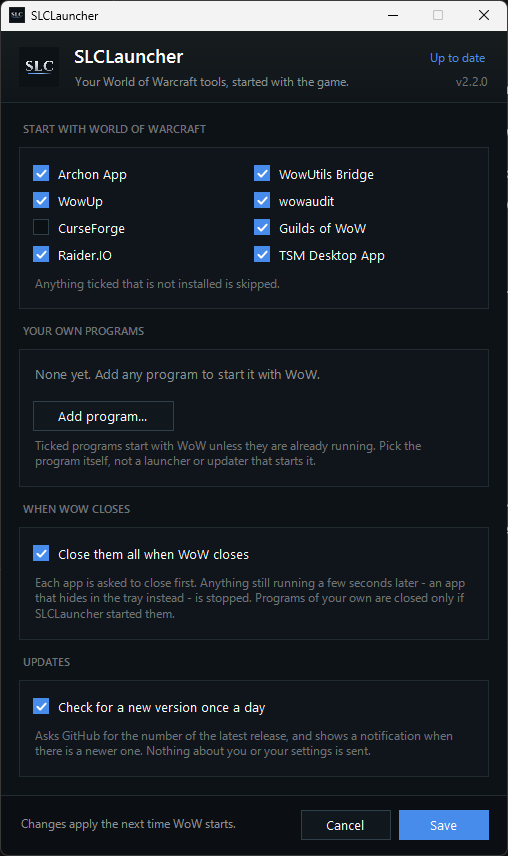
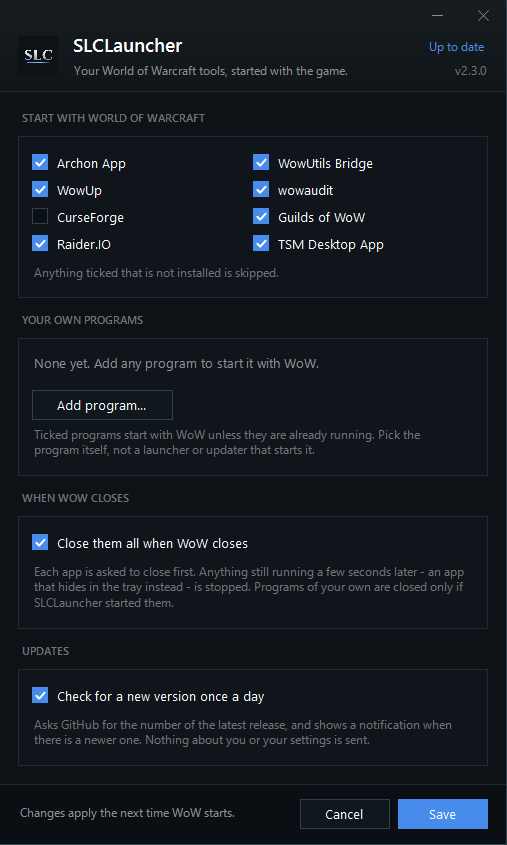
2.3.0: the header is the title bar
The settings window no longer has a Windows title bar. The header band
takes its place: a little more room at the top, minimize and close
buttons drawn flush in its top right corner, and the window dragged by
pressing anywhere on it except the update status line.

ThemedWindow (SLCTheme.cs) restores what a borderless window loses: the
taskbar button's minimize/restore and window menu, a drop shadow,
rounded corners on Windows 11, and a one-pixel edge. The buttons send
SC_MINIMIZE/SC_CLOSE, since WindowState does nothing to a ShowDialog
window. ThemeTitleBar is gone with the title bar it coloured.

diff --git a/SLCTheme.cs b/SLCTheme.cs
@@ -250,29 +250,160 @@ namespace SLCLauncher.Theme
         }
     }
 
+    // The window itself, with no Windows title bar: the header band is the
+    // title bar instead, carrying its own minimize and close buttons and
+    // dragging the window wherever it is not a control.
+    //
+    // A window with no border loses three things the title bar gave it, and
+    // they are put back here: its taskbar button minimizing and restoring it
+    // and offering a window menu (WS_MINIMIZEBOX, WS_SYSMENU), a shadow
+    // (CS_DROPSHADOW), and on Windows 11 its rounded corners. Its one-pixel
+    // edge is the window's own colour showing round the page, which the
+    // Padding of one leaves uncovered.
+    public class ThemedWindow : Form
+    {
+        const int WS_MINIMIZEBOX = 0x00020000;
+        const int WS_SYSMENU     = 0x00080000;
+        const int CS_DROPSHADOW  = 0x00020000;
+
+        public ThemedWindow()
+        {
+            FormBorderStyle = FormBorderStyle.None;
+            BackColor       = Palette.WindowEdge;
+            Padding         = new Padding(1);
+        }
+
+        protected override CreateParams CreateParams
+        {
+            get
+            {
+                var cp = base.CreateParams;
+                cp.Style     |= WS_MINIMIZEBOX | WS_SYSMENU;
+                cp.ClassStyle |= CS_DROPSHADOW;
+                return cp;
+            }
+        }
+
+        protected override void OnHandleCreated(EventArgs e)
+        {
+            base.OnHandleCreated(e);
+            Native.RoundCorners(this);
+        }
+    }
+
+    // Minimize or close, drawn as Windows 11 draws its own: a flat cell flush
+    // with the window's top right corner, lit on hover, the close cell red.
+    public class CaptionButton : Control
+    {
+        bool hover, down;
+        public bool IsClose { get; set; }
+
+        public CaptionButton()
+        {
+            SetStyle(ControlStyles.UserPaint | ControlStyles.AllPaintingInWmPaint |
+                     ControlStyles.OptimizedDoubleBuffer | ControlStyles.ResizeRedraw, true);
+            SetStyle(ControlStyles.Selectable, false);   // not a tab stop: Alt+F4 and the taskbar cover the keyboard
+        }
+
+        static readonly Color CloseHover = Color.FromArgb(0xC4, 0x2B, 0x1C);
+        static readonly Color CloseDown  = Color.FromArgb(0x94, 0x1F, 0x14);
+
+        protected override void OnMouseEnter(EventArgs e) { hover = true;  Invalidate(); base.OnMouseEnter(e); }
+        protected override void OnMouseLeave(EventArgs e) { hover = false; down = false; Invalidate(); base.OnMouseLeave(e); }
+        protected override void OnMouseDown(MouseEventArgs e) { if (e.Button == MouseButtons.Left) { down = true; Invalidate(); } base.OnMouseDown(e); }
+        protected override void OnMouseUp(MouseEventArgs e) { down = false; Invalidate(); base.OnMouseUp(e); }
+
+        protected override void OnClick(EventArgs e)
+        {
+            base.OnClick(e);
+            var form = FindForm();
+            if (form == null) return;
+            // The window menu's own commands, so Windows minimizes and closes
+            // it exactly as from the taskbar -- setting WindowState does
+            // nothing to a window shown with ShowDialog.
+            Native.SystemCommand(form, IsClose ? Native.SC_CLOSE : Native.SC_MINIMIZE);
+        }
+
+        protected override void OnPaint(PaintEventArgs e)
+        {
+            var g = e.Graphics;
+            Color fill = Color.Empty;
+            if (IsClose && (hover || down)) fill = down ? CloseDown : CloseHover;
+            else if (down)  fill = Palette.ControlDown;
+            else if (hover) fill = Palette.ControlHover;
+            if (fill.IsEmpty)
+                using (var b = new LinearGradientBrush(new Rectangle(0, -Top, Width, Parent.Height),
+                                                       Palette.HeaderTop, Palette.HeaderBottom, 90f))
+                    g.FillRectangle(b, ClientRectangle);   // the header's own gradient, so the cell is invisible at rest
+            else
+                using (var b = new SolidBrush(fill)) g.FillRectangle(b, ClientRectangle);
+
+            // A ten-pixel glyph, centred, one pixel thick at any scale but 2x.
+            float s = Dpi.Scale(this, 100) / 100f;
+            float half = 5f * s, cx = Width / 2f, cy = Height / 2f;
+            Color ink = (IsClose && (hover || down)) ? Color.White : (hover ? Palette.Text : Palette.TextMuted);
+            using (var pen = new Pen(ink, Math.Max(1f, (float)Math.Floor(s))))
+            {
+                if (IsClose)
+                {
+                    g.SmoothingMode = SmoothingMode.AntiAlias;
+                    g.DrawLine(pen, cx - half, cy - half, cx + half, cy + half);
+                    g.DrawLine(pen, cx - half, cy + half, cx + half, cy - half);
+                }
+                else
+                {
+                    g.DrawLine(pen, cx - half, cy, cx + half, cy);
+                }
+            }
+        }
+    }
+
     public static class Native
     {
         [DllImport("user32.dll")] public static extern bool SetProcessDPIAware();
         [DllImport("dwmapi.dll")] static extern int DwmSetWindowAttribute(IntPtr hwnd, int attr, ref int value, int size);
+        [DllImport("user32.dll")] static extern bool ReleaseCapture();
+        [DllImport("user32.dll")] static extern IntPtr SendMessage(IntPtr hWnd, int msg, IntPtr wParam, IntPtr lParam);
 
-        const int DWMWA_USE_IMMERSIVE_DARK_MODE = 20;
+        const int DWMWA_WINDOW_CORNER_PREFERENCE = 33;
         const int DWMWA_BORDER_COLOR  = 34;
-        const int DWMWA_CAPTION_COLOR = 35;
-        const int DWMWA_TEXT_COLOR    = 36;
+        const int DWMWCP_ROUND        = 2;
+        const int WM_NCLBUTTONDOWN    = 0xA1;
+        const int HTCAPTION           = 2;
+        const int WM_SYSCOMMAND       = 0x112;
+        public const int SC_MINIMIZE  = 0xF020;
+        public const int SC_CLOSE     = 0xF060;
+
+        public static void SystemCommand(Form form, int command)
+        {
+            SendMessage(form.Handle, WM_SYSCOMMAND, (IntPtr)command, IntPtr.Zero);
+        }
 
         static int ColorRef(Color c) { return c.R | (c.G << 8) | (c.B << 16); }
 
-        // A dark title bar in the band colour. Windows 10 honours only the
-        // dark mode flag; Windows 11 takes the exact colours too. Either way
-        // a refusal just leaves the system's own title bar.
-        public static void ThemeTitleBar(Form form)
+        // Windows 11 rounds a window's corners only when asked, once it has no
+        // title bar. Windows 10 does not know the attribute and refuses it,
+        // which leaves square corners -- what every window there has anyway.
+        public static void RoundCorners(Form form)
         {
-            IntPtr h = form.Handle;
-            int on = 1, caption = ColorRef(Palette.Band), border = ColorRef(Palette.WindowEdge), text = ColorRef(Palette.Text);
-            DwmSetWindowAttribute(h, DWMWA_USE_IMMERSIVE_DARK_MODE, ref on, 4);
-            DwmSetWindowAttribute(h, DWMWA_CAPTION_COLOR, ref caption, 4);
-            DwmSetWindowAttribute(h, DWMWA_BORDER_COLOR, ref border, 4);
-            DwmSetWindowAttribute(h, DWMWA_TEXT_COLOR, ref text, 4);
+            int round = DWMWCP_ROUND, border = ColorRef(Palette.WindowEdge);
+            DwmSetWindowAttribute(form.Handle, DWMWA_WINDOW_CORNER_PREFERENCE, ref round, 4);
+            DwmSetWindowAttribute(form.Handle, DWMWA_BORDER_COLOR, ref border, 4);
+        }
+
+        // Pressing the mouse on this control drags the window, exactly as on a
+        // title bar: Windows is told the press landed on its caption and does
+        // the rest, Aero Snap included.
+        public static void DragsWindow(Control surface)
+        {
+            surface.MouseDown += delegate(object sender, MouseEventArgs e)
+            {
+                if (e.Button != MouseButtons.Left) return;
+                var form = ((Control)sender).FindForm();
+                if (form == null) return;
+                ReleaseCapture();
+                SendMessage(form.Handle, WM_NCLBUTTONDOWN, (IntPtr)HTCAPTION, IntPtr.Zero);
+            };
         }
     }
 }
